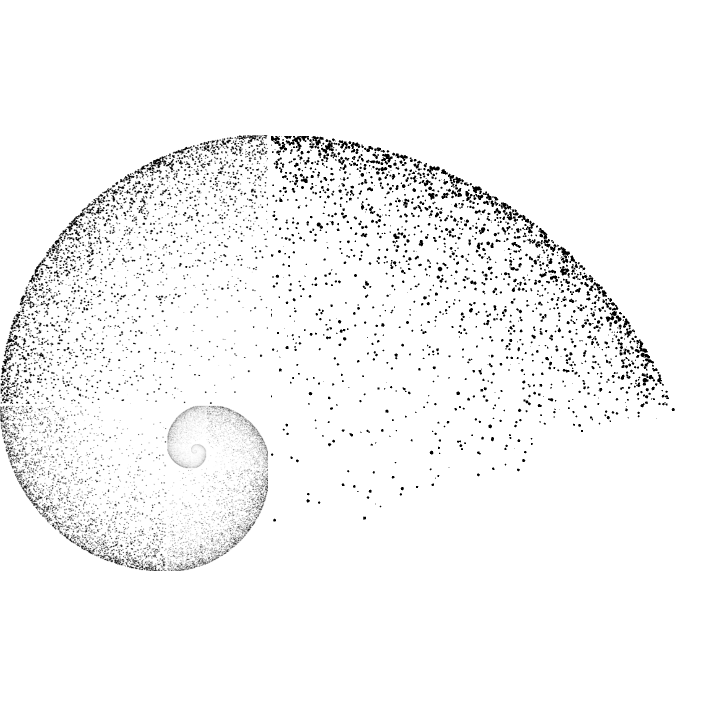
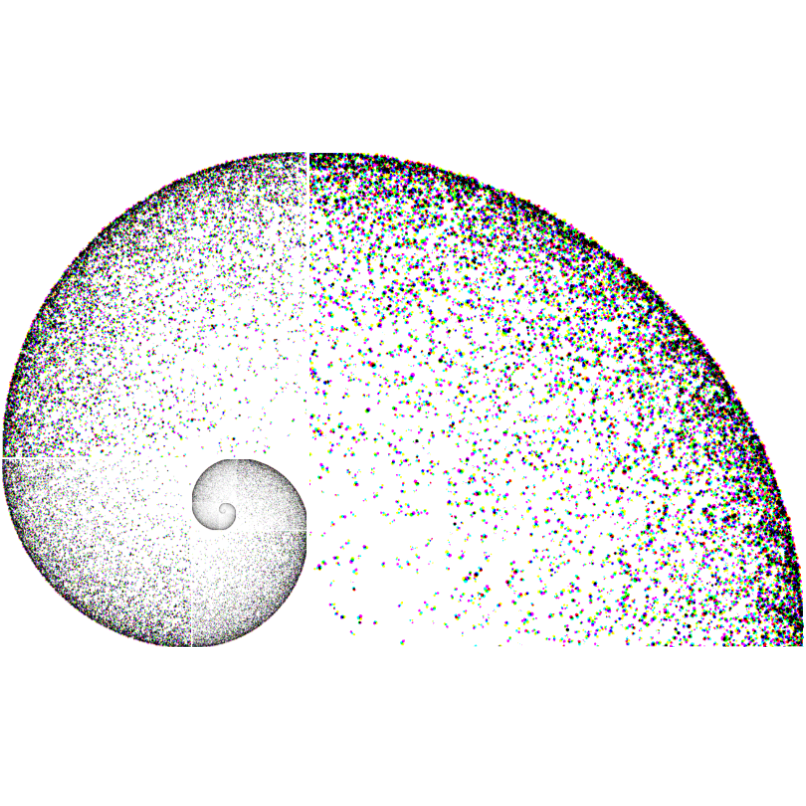
update genuary sketch

Changed region(s): [[0.0, 0.187, 1.0, 0.8102], [0.4051, 0.7479, 0.4674, 0.779]]

diff --git a/sketches/genuary2026_3/sketch.js b/sketches/genuary2026_3/sketch.js
@@ -268,16 +268,38 @@ class MyDrawer {
       translate(-this.drawingArea.width / 2, -this.drawingArea.height / 2);
 
       const ratio = 1 - this.timer / this.drawingDuration;
-      for (let i = 0; i < 100; i++) {
+      for (let i = 0; i < 200; i++) {
         const angle =
-          lerp(PI - 0.1, (PI * 3) / 2 + 0.1, ratio) + random(-0.1, 0.1);
+          lerp(PI - 0.1, (PI * 3) / 2 + 0.1, ratio) + random(-0.15, 0.15);
         strokeWeight(this.drawingArea.width * 0.005 * randomGaussian(1, 0.3));
+        blendMode(MULTIPLY);
         const r = 1 - random(random(random()));
         const x =
           this.drawingArea.width + cos(angle) * this.drawingArea.width * r;
         const y =
           this.drawingArea.height + sin(angle) * this.drawingArea.height * r;
+        stroke(0, 255, 255);
         point(x, y);
+        stroke(255, 0, 255);
+        const rand1 = random(
+          -this.drawingArea.width * 0.005,
+          this.drawingArea.width * 0.005
+        );
+        const rand2 = random(
+          -this.drawingArea.width * 0.005,
+          this.drawingArea.width * 0.005
+        );
+        point(x + rand1, y + rand2);
+        stroke(255, 255, 0);
+        const rand3 = random(
+          -this.drawingArea.width * 0.005,
+          this.drawingArea.width * 0.005
+        );
+        const rand4 = random(
+          -this.drawingArea.width * 0.005,
+          this.drawingArea.width * 0.005
+        );
+        point(x + rand3, y + rand4);
       }
 
       pop();

diff --git a/language_type/bilingual/index.html b/language_type/bilingual/index.html
@@ -70,7 +70,7 @@ https://cdn.jsdelivr.net/npm/chiron-hei-hk-webfont-truetype@2.5.25/css/vf.min.cs
 
 
 
-<img src="/images/10.jpg" alt="簽到">
+<img src="/images/1.jpg" alt="簽到">
  
       <div class="text">
         <h2 class="p-name card-title">簽到</h2>
@@ -94,7 +94,7 @@ https://cdn.jsdelivr.net/npm/chiron-hei-hk-webfont-truetype@2.5.25/css/vf.min.cs
 
 
 
-<img src="/images/10.jpg" alt="介紹">
+<img src="/images/1.jpg" alt="介紹">
  
       <div class="text">
         <h2 class="p-name card-title">介紹</h2>
